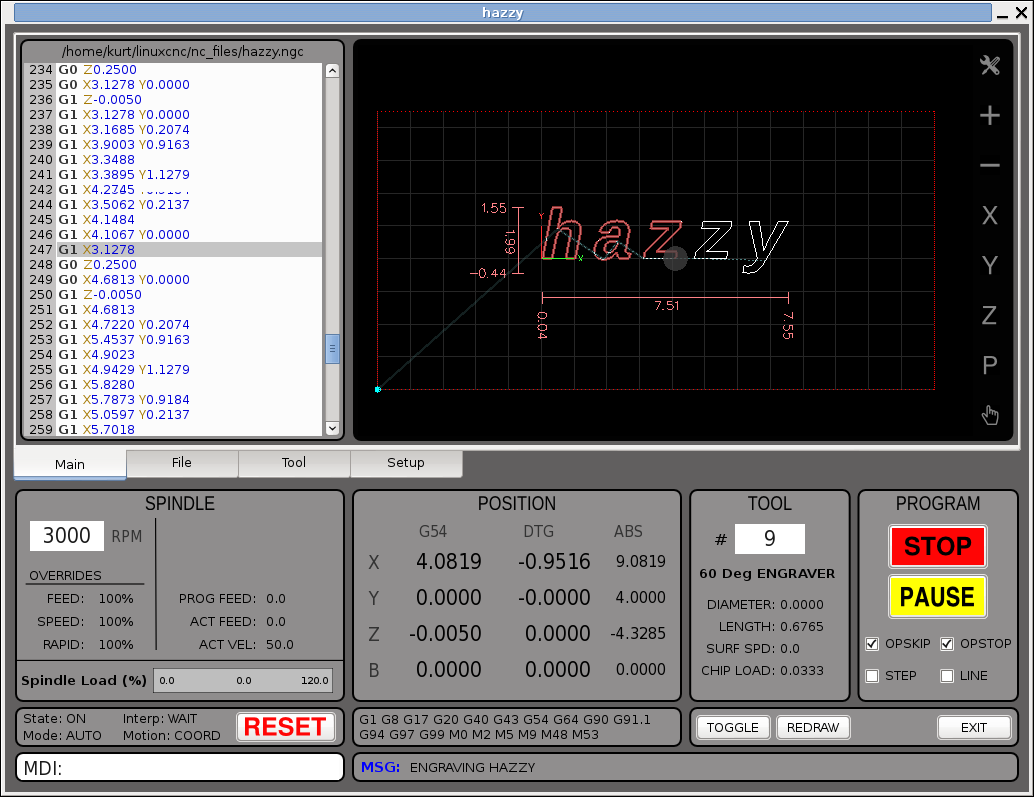
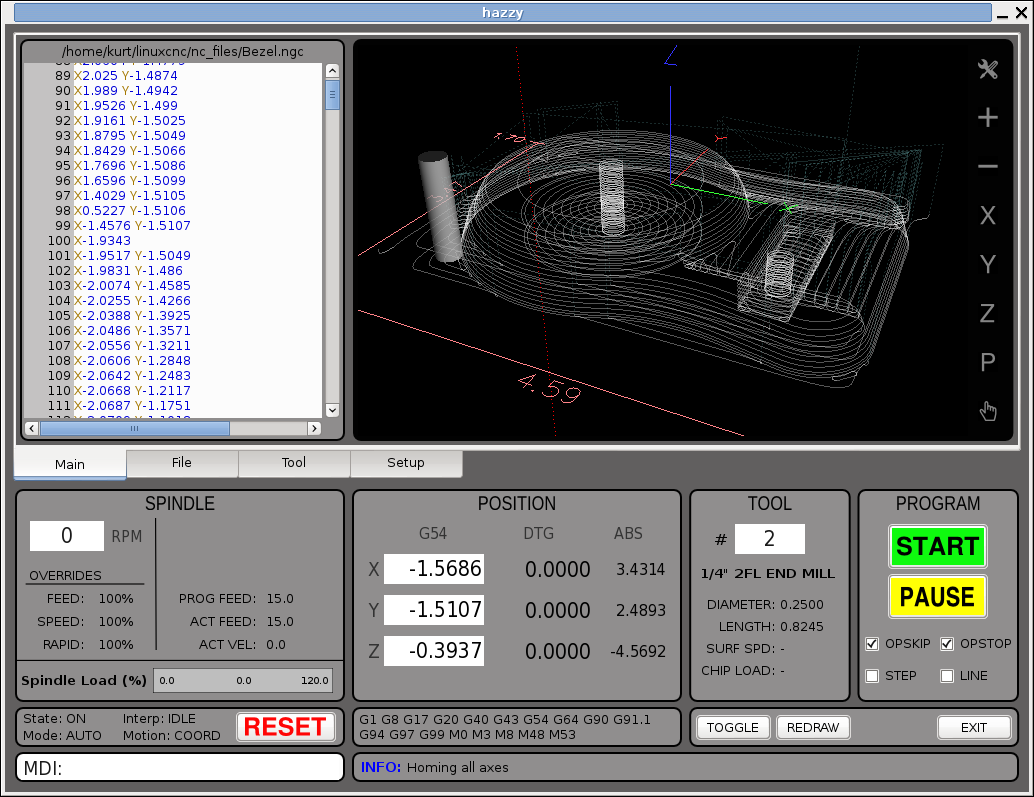
replaced progress bar with a progress percentage label. Cleaned up threading code

diff --git a/hazzy/modules/hazzygremlin/gremlin.py b/hazzy/modules/hazzygremlin/gremlin.py
@@ -64,7 +64,11 @@ import sys
 import thread
 import threading
 
+import logging
+
 from minigl import *
+
+log = logging.getLogger("HAZZY.GREMLIN.GREMLIN")
 
 class DummyProgress:
     def nextphase(self, unused): pass
@@ -134,9 +138,6 @@ class Gremlin(gtk.gtkgl.widget.DrawingArea, glnav.GlNavBase,
         self.connect('button-release-event', self.select_fire)
         self.connect('scroll-event', self.scroll)
 
-#        self.connect('completed', self.loading_finished)
-#        self.connect('set-view', self.set_current_view)
-
         self.add_events(gtk.gdk.POINTER_MOTION_MASK)
         self.add_events(gtk.gdk.POINTER_MOTION_HINT_MASK)
         self.add_events(gtk.gdk.BUTTON_MOTION_MASK)
@@ -150,7 +151,7 @@ class Gremlin(gtk.gtkgl.widget.DrawingArea, glnav.GlNavBase,
         self.maxlat = 90
 
         self.highlight_line = None
-        self.program_alpha = False
+        self.program_alpha = True
         self.use_joints_mode = False
         self.use_commanded = True
         self.show_limits = True
@@ -172,6 +173,8 @@ class Gremlin(gtk.gtkgl.widget.DrawingArea, glnav.GlNavBase,
         self.mouse_btn_mode = 0
         self.line_count = 0
 
+        self.label = None
+
         self.a_axis_wrapped = inifile.find("AXIS_A", "WRAPPED_ROTARY")
         self.b_axis_wrapped = inifile.find("AXIS_B", "WRAPPED_ROTARY")
         self.c_axis_wrapped = inifile.find("AXIS_C", "WRAPPED_ROTARY")
@@ -183,7 +186,12 @@ class Gremlin(gtk.gtkgl.widget.DrawingArea, glnav.GlNavBase,
         self.num_joints = int(inifile.find("KINS", "JOINTS") or live_axis_count)
 
     def fileloading(self, current_line):
-        pass
+        percent = current_line * 100 / self.line_count
+        if self.percent != percent:
+            self.percent = percent
+            msg = "Parsing G-code {}%".format(self.percent)
+            self.label.set_text(msg)
+            self.emit('loading_progress', percent)
 
     def activate(self):
         glcontext = gtk.gtkgl.widget_get_gl_context(self)
@@ -276,6 +284,8 @@ class Gremlin(gtk.gtkgl.widget.DrawingArea, glnav.GlNavBase,
         elif not filename and not s.file:
             return
 
+        self.label.show()
+
         self.td = tempfile.mkdtemp()
         self._current_file = filename
         try:
@@ -291,25 +301,20 @@ class Gremlin(gtk.gtkgl.widget.DrawingArea, glnav.GlNavBase,
 
             unitcode = "G%d" % (20 + (s.linear_units == 1))
             initcode = self.inifile.find("RS274NGC", "RS274NGC_STARTUP_CODE") or ""
-#            self.load_preview(filename, canon, unitcode, initcode)
-            self.clear_live_plotter()
+#           self.load_preview(filename, canon, unitcode, initcode)
             threading.Thread(target=self.load_preview, args=(filename, canon, unitcode, initcode,)).start()
-#            if result > gcode.MIN_ERROR:
-#                self.report_gcode_error(result, seq, filename)
 
-        finally:
+        except:
             pass
 
-        #self.set_current_view()
-
-
     def loading_finished(self, widget, result, seq):
-        print "******** Loading Finished *********"
-
-        print result, seq
-        #shutil.rmtree(self.td)
-
         self.set_current_view()
+        self.label.hide()
+        
+        try:
+            shutil.rmtree(self.td)
+        except Exception as e:
+            log.exception(e)
 
         if result > gcode.MIN_ERROR:
                 self.report_gcode_error(result, seq, self._current_file)
@@ -499,7 +504,7 @@ class Gremlin(gtk.gtkgl.widget.DrawingArea, glnav.GlNavBase,
         fname = os.path.basename(fpath)
         lnum = seq - 1
         msg = gcode.strerror(result)
-        print 'G-Code error in "{0}" near line {1}, {2}'.format(fname, lnum, msg)
+        log.error('G-Code error in "{0}" near line {1}, {2}'.format(fname, lnum, msg))
 
 
     # These are for external controlling of the view

diff --git a/hazzy/modules/hazzygremlin/hazzygremlin.py b/hazzy/modules/hazzygremlin/hazzygremlin.py
@@ -21,6 +21,7 @@
 
 import os
 import gtk
+import pango
 import gobject
 import threading
 
@@ -42,8 +43,6 @@ class HazzyGremlin(gremlin.Gremlin):
         'gcode-error': (gobject.SIGNAL_RUN_FIRST, gobject.TYPE_NONE, 
             (gobject.TYPE_STRING, gobject.TYPE_INT, gobject.TYPE_STRING,)),
         'loading-progress': (gobject.SIGNAL_RUN_FIRST, gobject.TYPE_NONE, (gobject.TYPE_INT,)),
-        'completed': (gobject.SIGNAL_RUN_FIRST, gobject.TYPE_NONE, (gobject.TYPE_INT, gobject.TYPE_INT,)),
-        'set-view' : (gobject.SIGNAL_RUN_FIRST, gobject.TYPE_NONE, ()),
     }
 
 
@@ -80,27 +79,32 @@ class HazzyGremlin(gremlin.Gremlin):
         controls.set_size_request(40, self.height)
         self.gremlin_view.add(controls)
 
-        # Add progress bar
-        self.progressbar = gtk.ProgressBar()
-        self.progressbar.set_size_request(300, 25)
-        self.progressbar.set_text("Generating preview ...")
-        fixed.put(self.progressbar, 0, self.height - 25)
+        # Add progress label
+        self.label = gtk.Label()
+        self.label.modify_font(pango.FontDescription('FreeSans 11'))
+        self.label.modify_fg(gtk.STATE_NORMAL, gtk.gdk.Color('White'))
+        labelbox = gtk.EventBox()
+        labelbox.modify_bg(gtk.STATE_NORMAL, gtk.gdk.Color('Black'))
+        labelbox.set_size_request(-1, 20)
+        labelbox.add(self.label)
+        fixed.put(labelbox, 0 , self.height - 20)
 
 
-    def fileloading(self, current_line):
-        percent = current_line * 100 / self.line_count
-        if self.percent != percent:
-            self.percent = percent
-            self.progressbar.set_fraction(self.percent / 100)
-            msg = "Generating preview {}%".format(self.percent)
-            self.progressbar.set_text(msg)
-            log.debug(msg)
-            self.emit('loading_progress', percent)
+#    def fileloading(self, current_line):
+#        self.progressbar.show()
+#        percent = current_line * 100 / self.line_count
+#        if self.percent != percent:
+#            self.percent = percent
+#            msg = "Generating preview {}%".format(self.percent)
+#            self.progressbar.set_text(msg)
+#            self.progressbar.set_fraction(self.percent / 100)
+#            log.debug(msg)
+#            self.emit('loading_progress', percent)
 
 
-#    def realize(self,widget):
-#        super(HazzyGremlin, self).realize(widget)
-#        #self.progressbar.hide()
+    def realize(self,widget):
+        super(HazzyGremlin, self).realize(widget)
+        self.label.hide()
 
 
     def posstrs(self):

diff --git a/hazzy/modules/hazzygremlin/glcanon.py b/hazzy/modules/hazzygremlin/glcanon.py
@@ -77,16 +77,11 @@ limiticon = array.array('B',
          255, 255,  176, 0,  152, 0,  140, 0,  134, 0,  128, 0,    0,   0,
            0,   0,    0, 0])
 
-class GLCanon(Translated, ArcsToSegmentsMixin, gobject.GObject):
-#    __gtype_name__ = "GLCanon"
-#    __gsignals__ = {
-#        'completed': (gobject.SIGNAL_RUN_FIRST, gobject.TYPE_NONE, (gobject.TYPE_INT, gobject.TYPE_INT,)),
-#        'set-view' : (gobject.SIGNAL_RUN_FIRST, gobject.TYPE_NONE, ()),
-#    }
+class GLCanon(Translated, ArcsToSegmentsMixin):
+
 
     lineno = -1
     def __init__(self, colors, geometry, is_foam=0):
-#        gobject.GObject.__init__(self)
 
         # traverse list - [line number, [start position], [end position], [tlo x, tlo y, tlo z]]
         self.traverse = []; self.traverse_append = self.traverse.append
@@ -1806,11 +1801,10 @@ class GlCanonDraw:
 
     def load_preview(self, f, canon, *args):
         self.set_canon(canon)
-        print "####################### START LOADING #############################"
         result, seq = gcode.parse(f, canon, *args)
-        print "####################### DONE LOADING #############################"
 
-#        self.emit('completed', result, seq)
+        self.label.set_text("Generating Preview. Please wait ...")
+        gobject.idle_add(self.loading_finished, self, result, seq)
 
         if result <= gcode.MIN_ERROR:
             self.canon.progress.nextphase(1)
@@ -1819,11 +1813,6 @@ class GlCanonDraw:
             self.stale_dlist('program_norapids')
             self.stale_dlist('select_rapids')
             self.stale_dlist('select_norapids')
-
-#        print "emiting set-view"
-#        self.emit('set-view')
-
-        gobject.idle_add(self.loading_finished, self, result, seq)
 
 
     def from_internal_units(self, pos, unit=None):

diff --git a/hazzy/hazzy.py b/hazzy/hazzy.py
@@ -911,10 +911,11 @@ class Hazzy:
             self.window.set_focus(None)
 
     def on_button1_clicked(self, widget, data=None):
-        self.gremlin._redraw()
+        self.gremlin.expose()
 
     def on_redraw_clicked(self, widget, data=None):
-        self.gremlin.load()
+        self.gremlin.expose()
+        #self.gremlin.load()
 
 
 # =========================================================      
